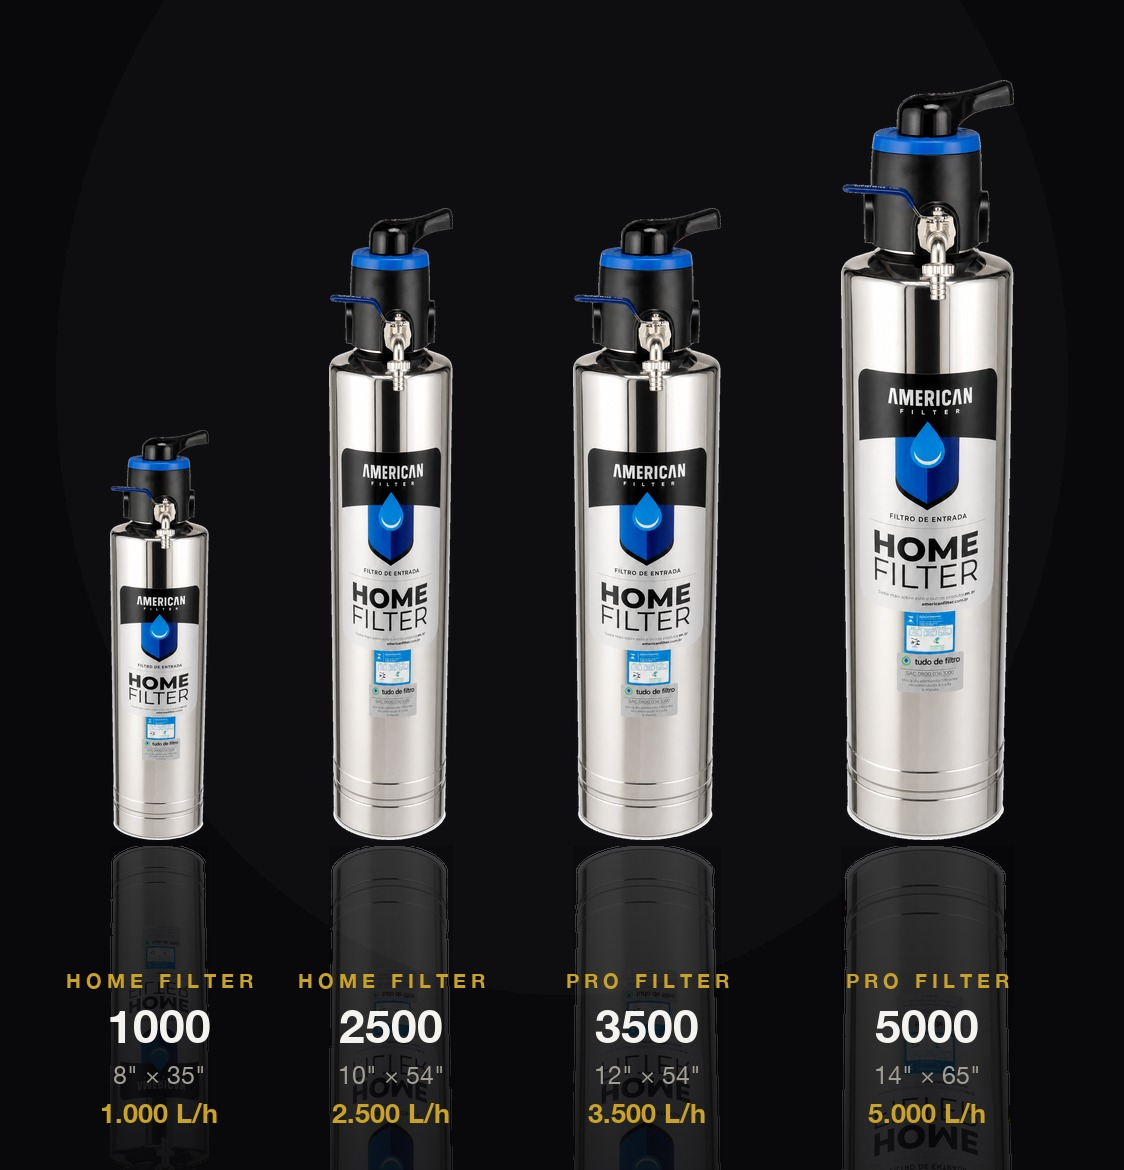
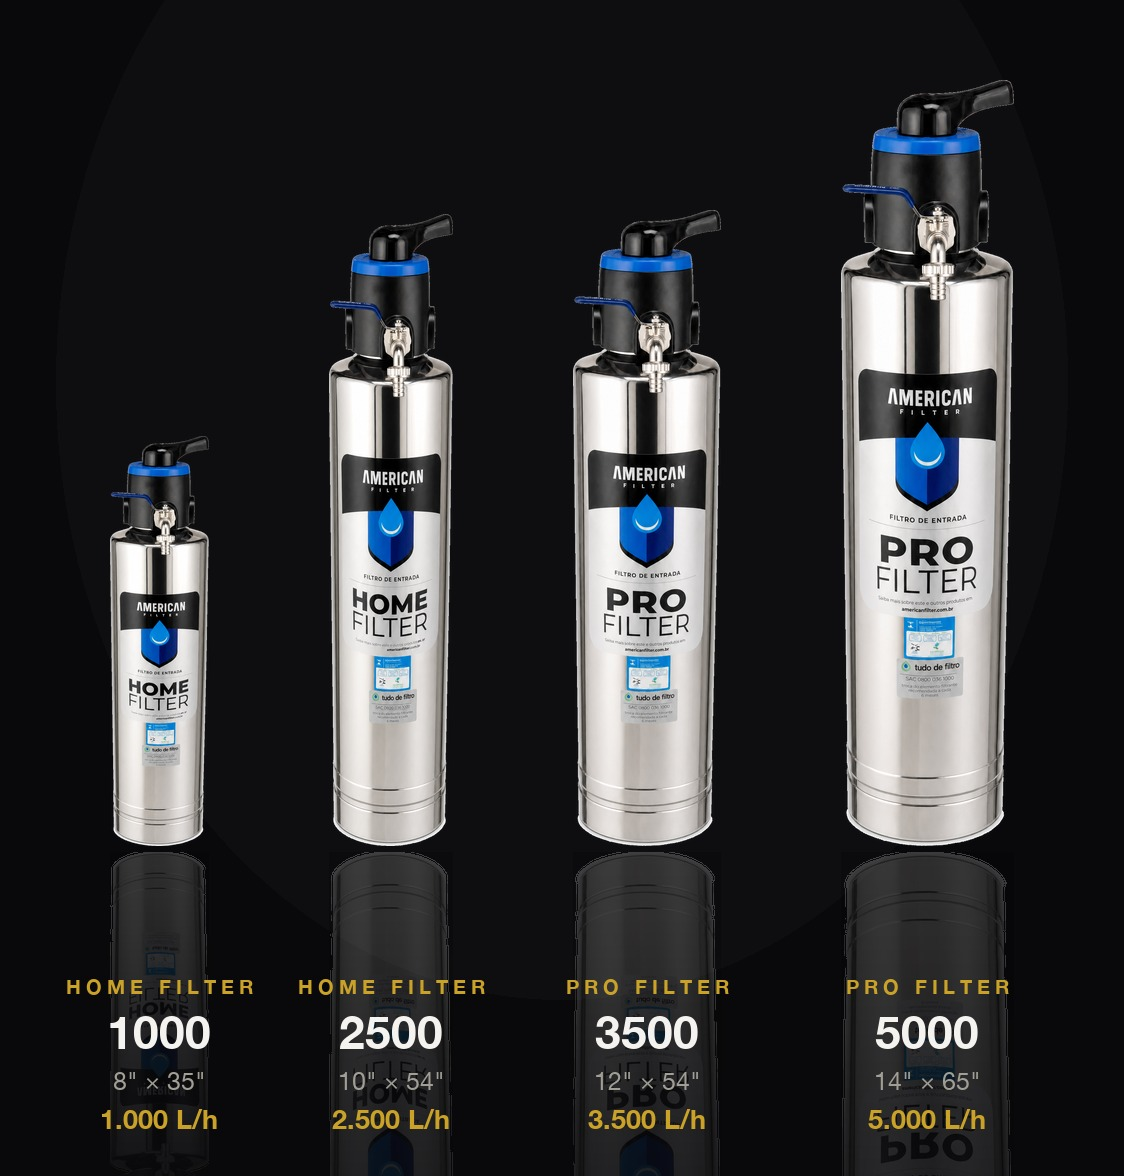
Render PRO FILTER nos modelos Pro (comparativo + giro Home/Pro no visualizador); manifesto com visual da jornada da água (cano antigo)

diff --git a/js/main.js b/js/main.js
@@ -66,19 +66,18 @@
     });
   }
 
-  // ---- Visualizador 360° (arrastar) + escala por modelo ----
+  // ---- Visualizador 360° (arrastar) + escala + Home/Pro por modelo ----
   (function(){
     var img = document.getElementById("spinImg");
     var viewer = document.getElementById("viewer");
     if(!img || !viewer) return;
-    var N = 36, srcs = [], idx = 0;
-    for(var i=1;i<=N;i++){
-      var name = "assets/img/spin/f" + (i<10?"0"+i:i) + ".jpg";
-      srcs.push(name); var pre = new Image(); pre.src = name;
-    }
+    var N = 36;
+    function build(dir){ var a=[]; for(var i=1;i<=N;i++){ var n=dir+"/f"+(i<10?"0"+i:i)+".jpg"; a.push(n); var p=new Image(); p.src=n; } return a; }
+    var HOME = build("assets/img/spin"), PRO = build("assets/img/spin-pro");
+    var srcs = HOME, idx = 0;
     function show(i){ idx = ((i % N) + N) % N; img.src = srcs[idx]; }
-    var dragging=false, startX=0, startIdx=0, auto=null, scaleStr="scale(0.78,0.78)";
-    img.style.transform = scaleStr;
+    var dragging=false, startX=0, startIdx=0, auto=null;
+    img.style.transform = "scale(0.78,0.78)";
     function startAuto(){ stopAuto(); auto = setInterval(function(){ show(idx+1); }, 110); }
     function stopAuto(){ if(auto){ clearInterval(auto); auto=null; } }
     viewer.addEventListener("pointerdown", function(e){
@@ -92,11 +91,12 @@
     window.addEventListener("pointerup", function(){
       if(dragging){ dragging=false; setTimeout(startAuto, 3000); }
     });
-    // escala conforme o modelo selecionado (altura e diâmetro reais)
+    // troca Home/Pro + escala conforme o modelo (altura e diâmetro reais)
     window.addEventListener("af:model", function(e){
       var d=e.detail.d, h=e.detail.h;
-      scaleStr = "scale(" + (0.78*d/10).toFixed(3) + "," + (0.78*h/54).toFixed(3) + ")";
-      img.style.transform = scaleStr;
+      srcs = (d>=12) ? PRO : HOME;
+      show(idx);
+      img.style.transform = "scale(" + (0.78*d/10).toFixed(3) + "," + (0.78*h/54).toFixed(3) + ")";
     });
     startAuto();
   })();

diff --git a/css/styles.css b/css/styles.css
@@ -66,10 +66,15 @@ em{font-style:italic;color:var(--gold-soft)}
 @keyframes scroll{0%{opacity:0;top:8px}40%{opacity:1}80%{opacity:0;top:20px}}
 
 /* MANIFESTO */
-.manifesto{padding:clamp(90px,16vh,200px) var(--pad);max-width:1100px;margin:0 auto;text-align:center}
-.manifesto__text{font-family:var(--serif);font-weight:300;font-size:clamp(1.6rem,4vw,3rem);line-height:1.3}
+.manifesto{position:relative;padding:clamp(110px,22vh,260px) var(--pad);text-align:center;overflow:hidden;
+  border-top:1px solid var(--line);border-bottom:1px solid var(--line)}
+.manifesto::before{content:"";position:absolute;inset:0;z-index:0;
+  background:url("../assets/img/jornada.jpg") center/cover;transform:scale(1.05);will-change:transform}
+.manifesto::after{content:"";position:absolute;inset:0;z-index:1;
+  background:linear-gradient(90deg,rgba(7,7,8,.92),rgba(7,7,8,.6) 55%,rgba(7,7,8,.85)),linear-gradient(0deg,#070708,transparent 40%,transparent 60%,#070708)}
+.manifesto__text{position:relative;z-index:2;max-width:1000px;margin:0 auto;
+  font-family:var(--serif);font-weight:300;font-size:clamp(1.6rem,4vw,3rem);line-height:1.3;color:var(--mut)}
 .manifesto__text span{color:var(--ink)}
-.manifesto__text{color:var(--mut)}
 
 /* BENEFITS */
 .benefits__grid{display:grid;grid-template-columns:repeat(4,1fr);gap:18px}